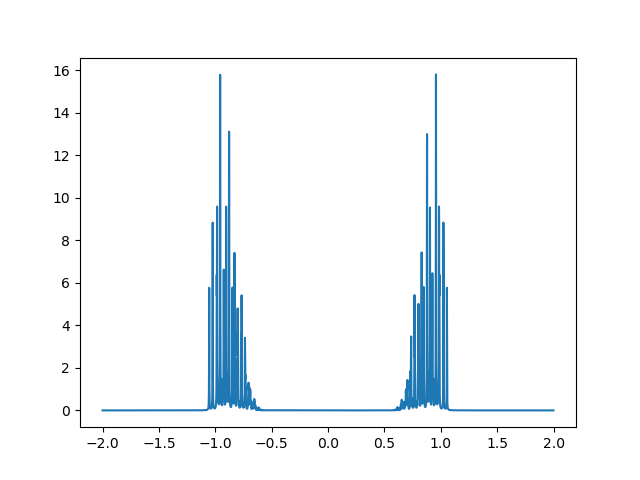
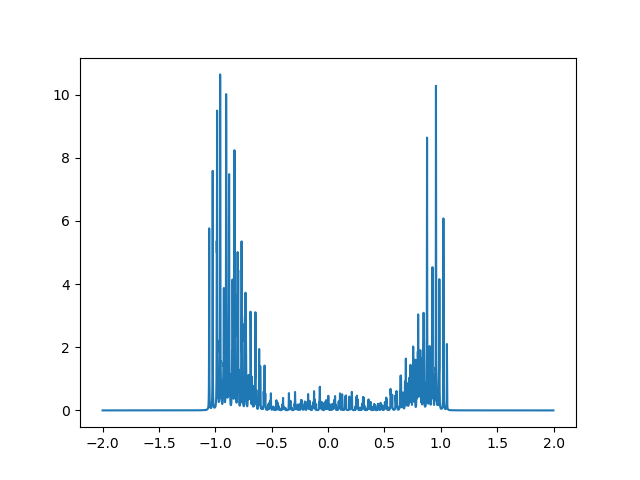
Add twin sector (nup,dwn)->(ndw,nup)

diff --git a/edpyt/test_gf_exact.py b/edpyt/test_gf_exact.py
@@ -46,16 +46,35 @@ def test_phs():
     H = H_(ed,t)
     V = V_(U)
 
+    # \sum_{i,spin} -t_ij c(i,s)^+ c(j,s)
+
+    # ----------------------------------
+    # + \sum{i} U_i n(i,up) + n(i,dw)
+    # + \sum{i,spin} e_i n(i,s)
+    # ----------------------------------
     params['hfmode'] = False
     mu = ed + U/2.
     gf = build_gf_exact(H, V, beta=beta, mu=mu)
 
-    params['hfmode'] = True # U(n-0.5)(n-0.5)
+    # ----------------------------------
+    # + \sum{i} U_i (n(i,up)-0.5) + (n(i,dw)-0.5)
+    # + \sum{i,spin} e_i n(i,s)
+    # ----------------------------------
+    params['hfmode'] = True # U(nup-0.5)(ndw-0.5)
     mu = ed
     gf_phs = build_gf_exact(H, V, beta=beta, mu=mu)
+
+    # ----------------------------------
+    # + \sum{i} U_i (n(i,up)-0.5) + (n(i,dw)-0.5)
+    # + \sum{i,spin} (e_i-mu) n(i,s)
+    # ----------------------------------
+    params['mu'] = ed # (ed-mu)(nup+ndw)
+    mu = 0.
+    gf_phs_mu0 = build_gf_exact(H, V, beta=beta, mu=mu)
 
     eta = 1e-3
     energies = 10*np.random.random(20) - 5
 
     #https://www.cond-mat.de/events/correl16/manuscripts/scalettar.pdf
     assert np.allclose(gf_phs(energies, eta), gf(energies, eta))
+    assert np.allclose(gf_phs_mu0(energies, eta), gf(energies, eta))

diff --git a/edpyt/espace.py b/edpyt/espace.py
@@ -108,7 +108,7 @@ def build_espace(H, V, neig_sector=None, cutoff=np.inf):
     egs = np.inf
     for nup in range(n+1):
         states_up = generate_states(n, nup)
-        for ndw in range(n+1):
+        for ndw in range(nup,n+1):
             # Sequential index sector.
             isct = get_sector_index(nup, ndw, n)
             if neig_sector[isct] == 0:
@@ -124,15 +124,15 @@ def build_espace(H, V, neig_sector=None, cutoff=np.inf):
                 eigvals,
                 eigvecs
             )
-            # if nup < ndw:
-            #     espace[(ndw,nup)] = Sector(
-            #         States(states_dw, states_up),
-            #         states_up.size*states_dw.size,
-            #         states_dw.size,
-            #         states_up.size,
-            #         eigvals,
-            #         eigvecs
-            #     )
+            if nup != ndw:
+                espace[(ndw,nup)] = Sector(
+                    States(states_dw, states_up),
+                    states_up.size*states_dw.size,
+                    states_dw.size,
+                    states_up.size,
+                    eigvals,
+                    eigvecs
+                )
 
             # Update GS energy
             egs = min(eigvals.min(), egs)

diff --git a/edpyt/test_gf_lanczos.py b/edpyt/test_gf_lanczos.py
@@ -17,7 +17,7 @@ from sector import (
 )
 
 
-"""Hubbard dimer atomic limit.
+"""Hubbard chain.
 
 """
 
@@ -38,7 +38,7 @@ V_ = lambda U, n: np.diag([U]*n)
 H = H_(ed,t,n)
 V = V_(U,n)
 
-def test_build_gf_lanczos():
+def test_build_gf_lanczos_hubchain():
     from matplotlib import pyplot as plt
     from shared import params
 
@@ -55,7 +55,7 @@ def test_build_gf_lanczos():
         ] = 5
 
     espace, egs = build_espace(H, V, neig_sector)
-    gf = build_gf_lanczos(H, V, espace, beta=beta, mu=params['mu'])
+    gf = build_gf_lanczos(H, V, espace, beta=beta, mu=0.)
 
     eta = 1e-3
     energies = np.arange(-2,2,1e-3)

diff --git a/edpyt/lanczos.py b/edpyt/lanczos.py
@@ -27,7 +27,7 @@ def build_sl_tridiag(matvec, phi0, maxn=300, delta=1e-15, tol=1e-10, ND=10):
         b : off-diagonal elements
 
     Note:
-        T := diag(a,k=0) + diag(b,k=1) + diag(b,k=-1)
+        T := diag(a,k=0) + diag(b[1:],k=1) + diag(b[1:],k=-1)
 
     '''
     a = np.empty(maxn, dtype=np.float64)
